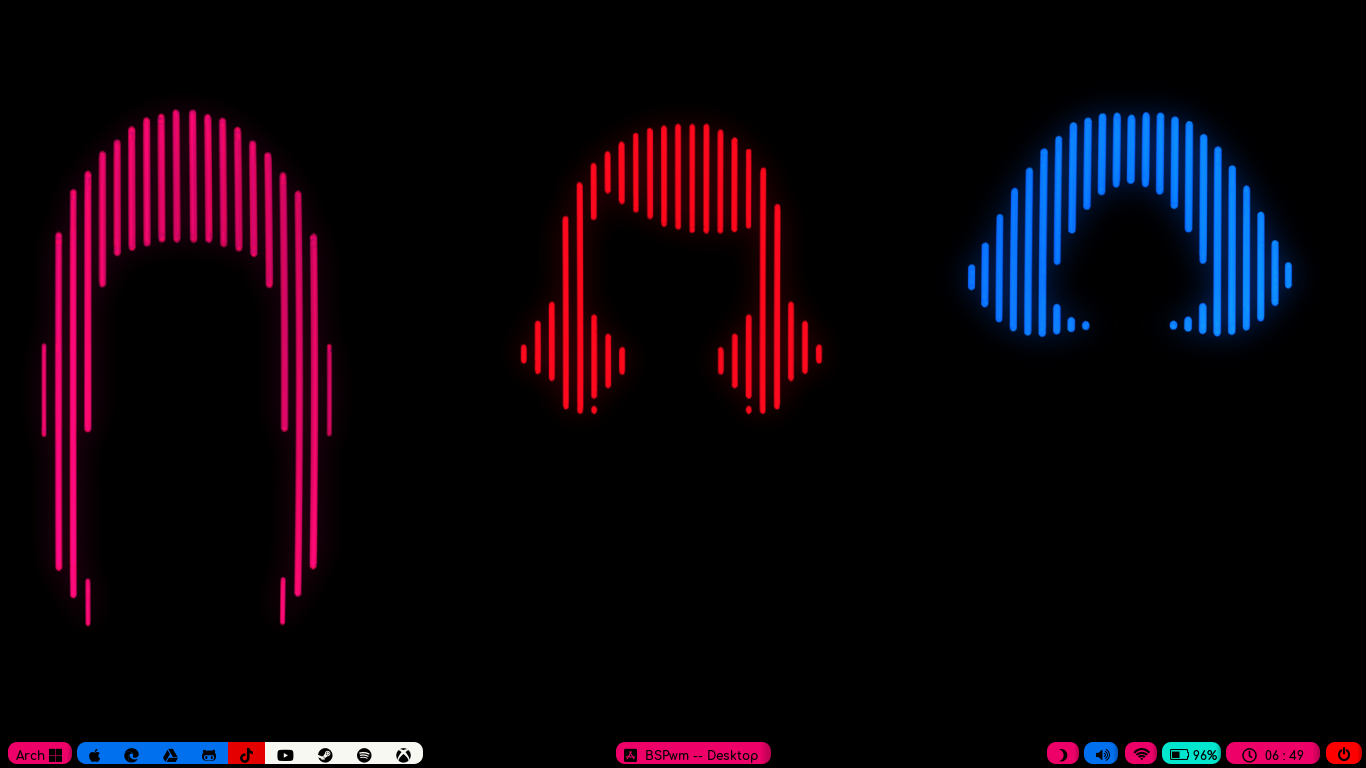
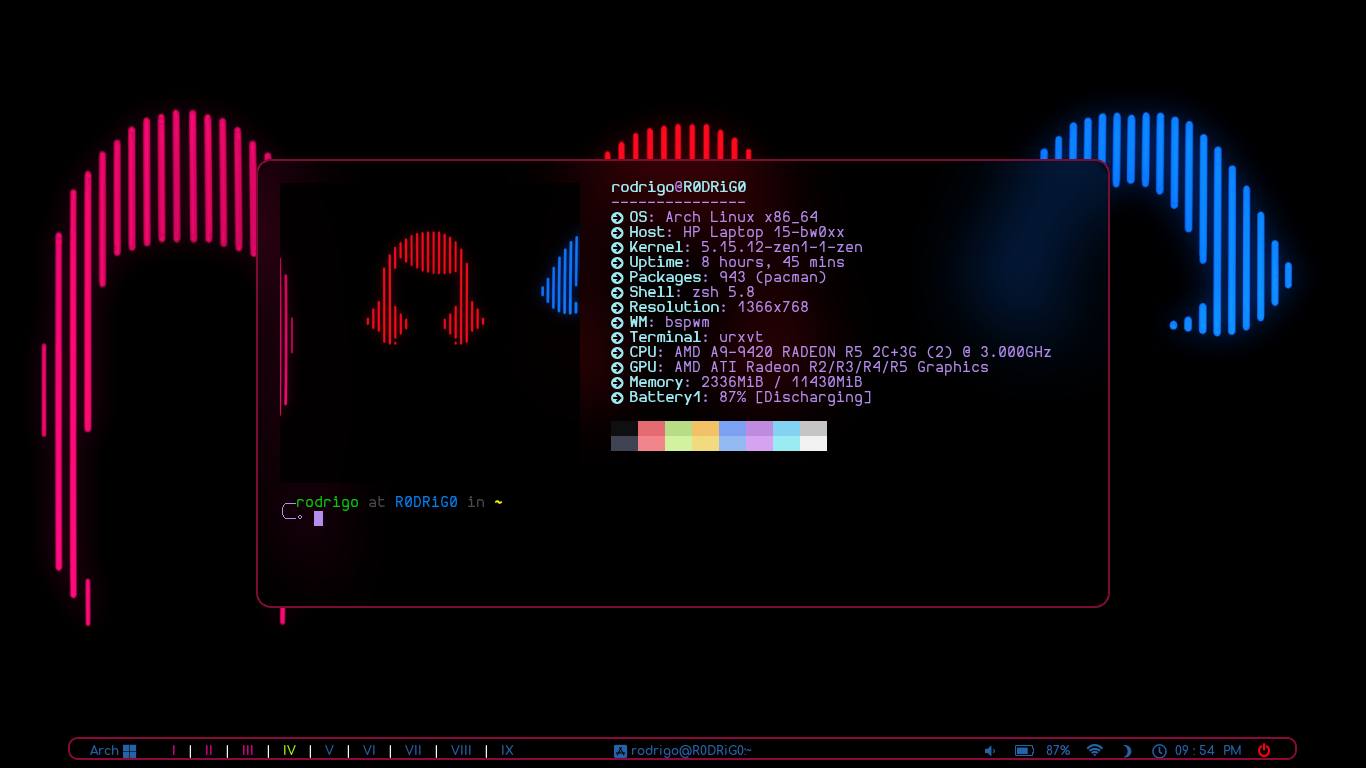
BSPwm

diff --git a/README.md b/README.md
@@ -1,10 +1,37 @@
-BSPwm configuration files
 
-Requirements:
+# My BSPwm 🎼 configuration
 
-bspwm
-sxhkd
-polybar
-feh
-picom
-rofi
+This is my BSPwm configuration, which has the configuration files that I use in the GNU Arch Linux distro.
+You are free to use my configuration. 
+
+
+## Screenshots
+
+![App Screenshot](https://github.com/shapzo/Dotfiles_BSPwm/blob/main/Screeshot/Arch-BSPwm%20(3).png?raw=true)
+
+![App Screenshot](https://github.com/shapzo/Dotfiles_BSPwm/blob/main/Screeshot/Arch-BSPwm%20(2).png?raw=true)
+
+
+## Requirements
+
+ - [BSPwm](https://github.com/phuhl/bspwm-rounded) 🎼 
+ - [Picom](https://github.com/ibhagwan/picom) 😁
+ - [Sxhkd](https://github.com/baskerville/sxhkd) 😉
+ - [Polybar](https://github.com/polybar/polybar) 😊
+ - [Rofi](https://github.com/davatorium/rofi) 🙂
+ - [Betterlockscreen](https://github.com/betterlockscreen/betterlockscreen) 😳
+ - [Feh](https://feh.finalrewind.org/) 😏
+ - [Tilix-terminal](https://gnunn1.github.io/tilix-web/) 😎
+ - [urxvt-terminla](http://software.schmorp.de/pkg/rxvt-unicode.html) 😅
+ - [Zsh-shell](https://www.zsh.org/) 🤗
+ - [Nerd fonts](https://www.nerdfonts.com/#home) 🤩
+ - [Awesome font](https://fontawesome.com/download) 🤤
+ - [Powerline font](https://github.com/powerline/fonts) 😝
+
+
+
+## Author
+
+- [@rodrigo](https://github.com/shapzo) 🐾
+![App Screenshot](https://avatars.githubusercontent.com/u/85635398?v=4)
+
